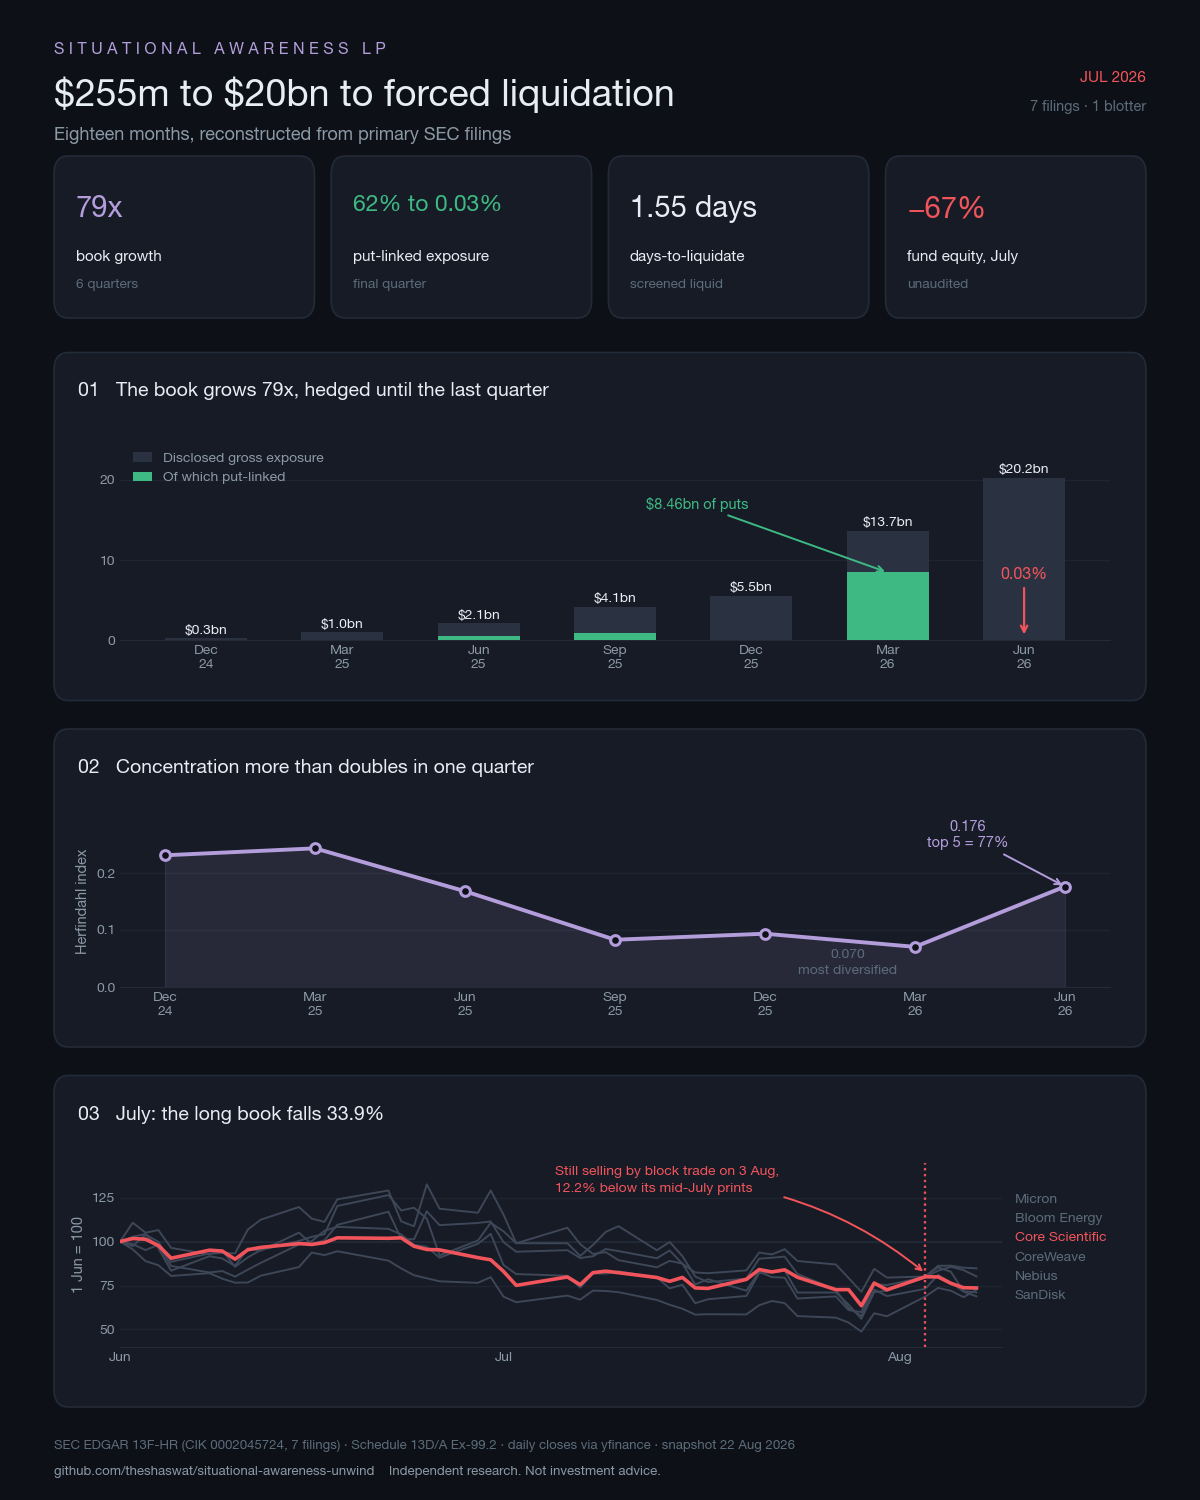
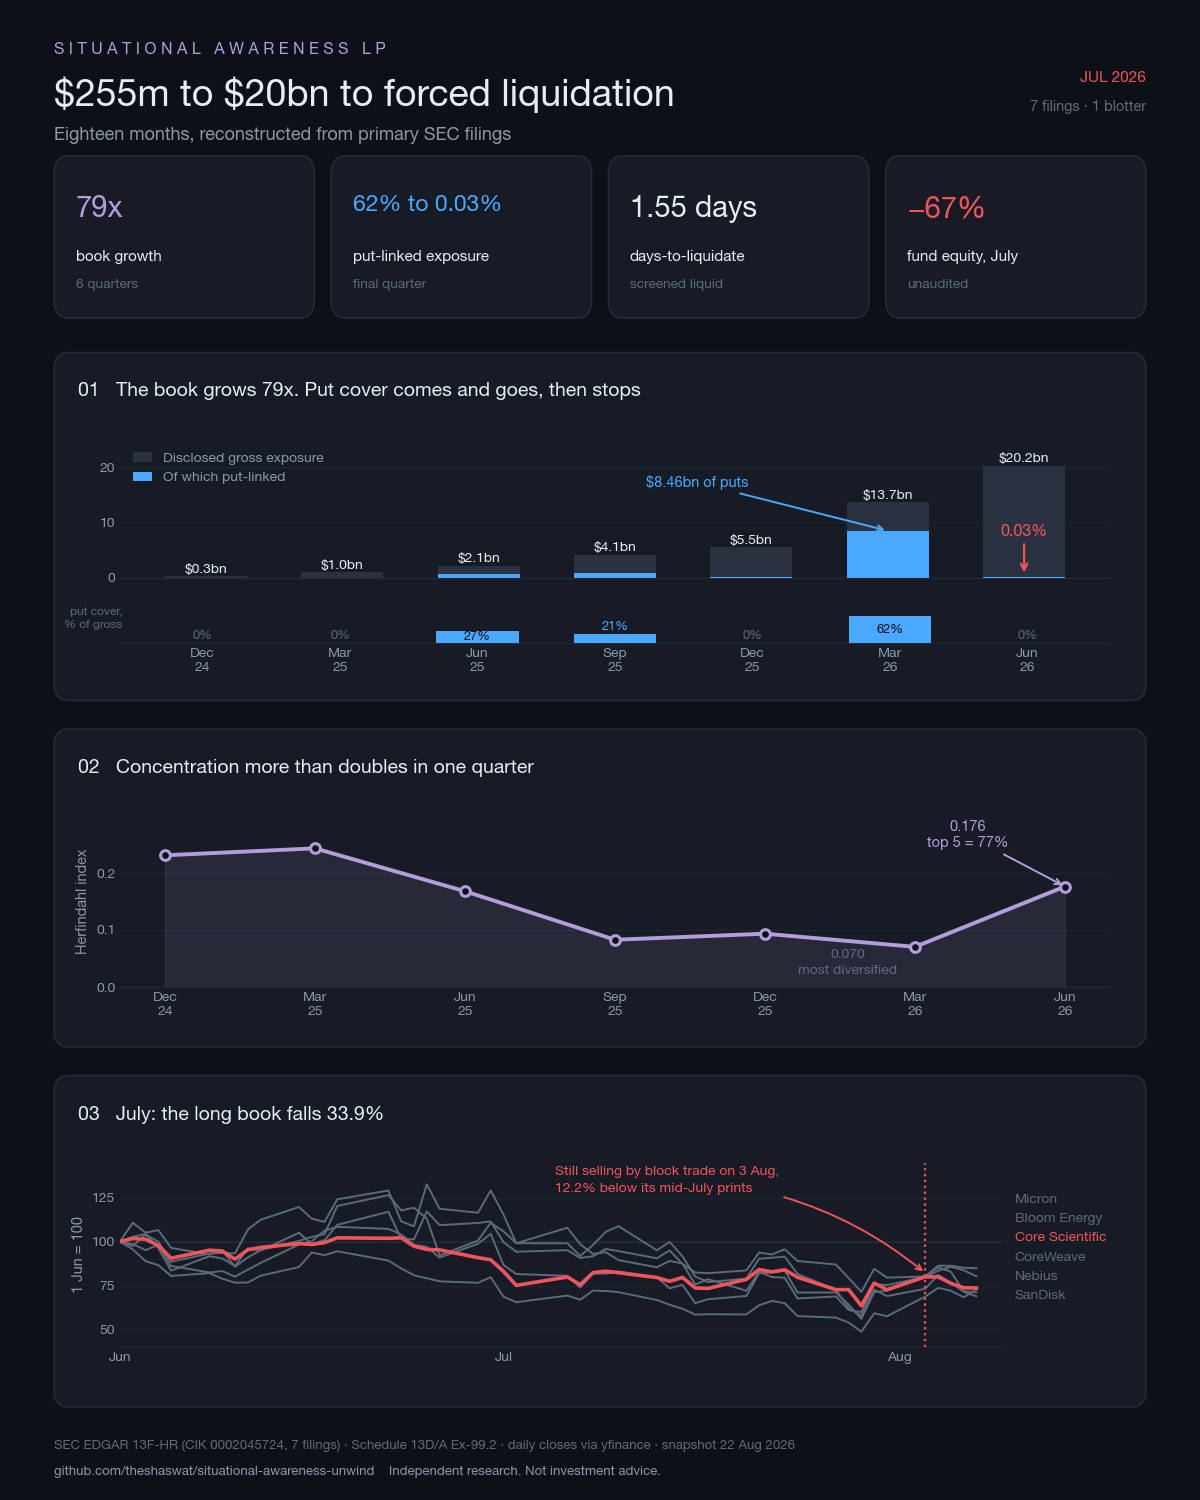
Fix a factual error and an accessibility failure in the journey exhibit
The panel title read "grows 79x, hedged until the last quarter". The filings
do not support it: put cover was 0%, 0%, 27%, 21%, 0%, 62%, 0% across the
seven quarters, so the fund carried essentially no cover in three of them.
Retitled to "Put cover comes and goes, then stops", and added a share strip
beneath the bars. At 79x growth the early bars are visually nothing, so the
share could not be read off them; the strip carries it at every quarter and
makes the intermittency visible rather than asserted.

Accessibility, checked with the palette validator rather than by eye:
- The hedge fill and the loss red separated by only dE 5.9 under deutan, a
  hard fail. Moved the hedge fill from green to blue (#4aa8ff), which scores
  24.1. Green-on-red was the one pairing a red-green colourblind reader
  could not resolve, and both appear in panel 01 together.
- The grey series lines sat at 1.34:1 against the card, under the 3:1 floor.
  Lightened to #5c6b7a, now passing. Their separation from the highlighted
  red line is dE 7.7, inside the floor band, which is permitted here because
  every line carries a direct name label and the highlighted one is drawn at
  nearly twice the weight.

Shaswat Sharma

diff --git a/scripts/build_journey_exhibit.py b/scripts/build_journey_exhibit.py
@@ -32,7 +32,7 @@ TEXT = "#e6edf3"
 MUTED = "#8b98a5"
 DIM = "#5c6b7a"
 ACCENT = "#b39ddb"
-HEDGE = "#3fb984"
+HEDGE = "#4aa8ff"
 LOSS = "#f2545b"
 GRID = "#1e2530"
 
@@ -115,9 +115,9 @@ for i, (big, lab, sub, col) in enumerate(kpis):
 
 # --------------------------------------------- act 1: the rise + the hedge
 cx, cy, cw, ch = card(L, 0.533, W, 0.232)
-fig.text(cx + 0.020, cy + ch - 0.020, "01   The book grows 79x, hedged until the last quarter",
+fig.text(cx + 0.020, cy + ch - 0.020, "01   The book grows 79x. Put cover comes and goes, then stops",
          fontsize=14, fontweight="700", color=TEXT, va="top")
-ax1 = fig.add_axes([cx + 0.055, cy + 0.040, cw - 0.085, ch - 0.098])
+ax1 = fig.add_axes([cx + 0.055, cy + 0.082, cw - 0.085, ch - 0.140])
 style_axes(ax1)
 x = range(len(conc))
 gross_bn = conc.gross_usd / 1e9
@@ -138,6 +138,29 @@ ax1.annotate("$8.46bn of puts", xy=(5, hedged_bn.iloc[5]), xytext=(3.6, 16.4),
 ax1.annotate("0.03%", xy=(6, 0.4), xytext=(6, 7.6),
              fontsize=11.5, color=LOSS, fontweight="700", ha="center",
              arrowprops=dict(arrowstyle="->", color=LOSS, lw=1.6))
+ax1.set_xticklabels([])
+
+# Put cover as a share of gross. At 79x growth the early bars are visually
+# nothing, so the share is unreadable off the bars above — this strip carries
+# it at every quarter and shows the cover was intermittent, not continuous.
+axs = fig.add_axes([cx + 0.055, cy + 0.038, cw - 0.085, 0.030])
+axs.set_facecolor("none"); axs.set_zorder(3)
+axs.bar(x, conc.put_pct * 100, color=HEDGE, width=0.6, zorder=3)
+axs.set_ylim(0, 100); axs.set_xlim(-0.6, 6.6)
+axs.set_yticks([])
+axs.set_xticks(list(x)); axs.set_xticklabels(conc.label, fontsize=10)
+axs.tick_params(length=0, labelsize=10)
+for sp in ["top", "right", "left"]:
+    axs.spines[sp].set_visible(False)
+axs.spines["bottom"].set_color(EDGE)
+for i, v in enumerate(conc.put_pct * 100):
+    inside = v >= 26          # tall enough to sit on the fill legibly
+    axs.text(i, v / 2 if inside else v + 16,
+             f"{v:.0f}%" if v >= 1 else "0%", ha="center", fontsize=9.2,
+             color=BG if inside else (HEDGE if v >= 1 else DIM),
+             fontweight="700", va="center", zorder=4)
+axs.text(-0.58, 55, "put cover,\n% of gross", fontsize=8.6, color=DIM,
+         ha="right", va="center", linespacing=1.4)
 
 # ------------------------------------------- act 2: concentration reverses
 cx, cy, cw, ch = card(L, 0.302, W, 0.212)
@@ -173,7 +196,7 @@ name = {"SNDK": "SanDisk", "MU": "Micron", "BE": "Bloom Energy",
 for t in norm.columns:
     is_corz = t == "CORZ"
     ax3.plot(norm.index, norm[t], lw=2.6 if is_corz else 1.4,
-             color=LOSS if is_corz else "#3d4757",
+             color=LOSS if is_corz else "#5c6b7a",
              zorder=4 if is_corz else 2)
 MIN_GAP = 11.0
 placed = []
